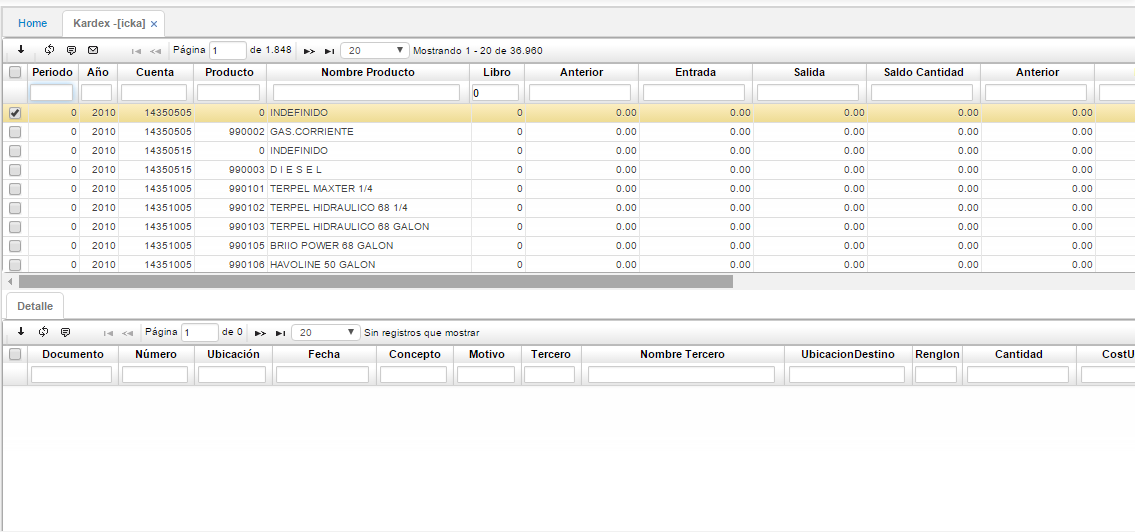
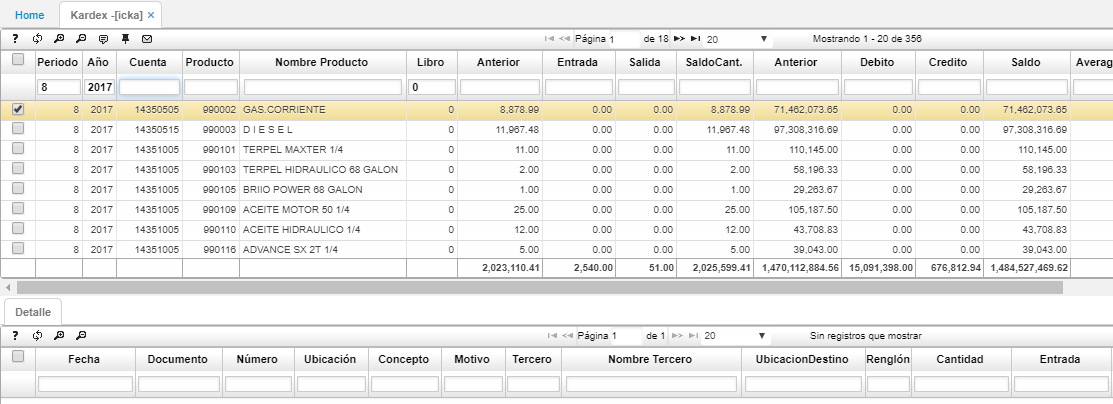
icka

diff --git a/Operacion/scm/inventarios/icosto/icka.md b/Operacion/scm/inventarios/icosto/icka.md
@@ -7,10 +7,9 @@ editable: si
 
 # Kardex - ICKA
 
-Ficha de kardex por producto y por bodega para cada uno de los periodos, muestra las entradas, salidas y saldos por producto ordenados por fecha.  
+Ficha de kardex por producto y por bodega para cada uno de los periodos, muestra las entradas, salidas y saldos por producto ordenados por fecha, al igual que las columnas cuentan con un subtotal de suma de inventario de productos.  
 
 Los datos los muestra tanto en cantidades como en valores.  
-
 
 ![](icka1.png)
 
